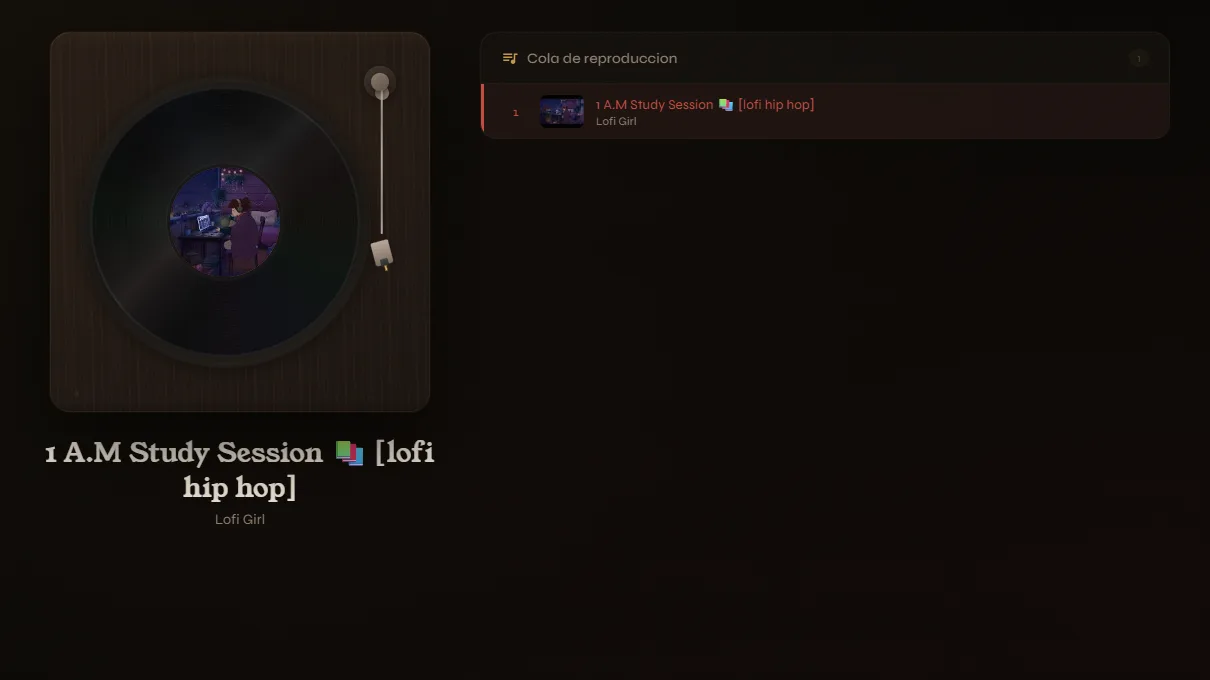
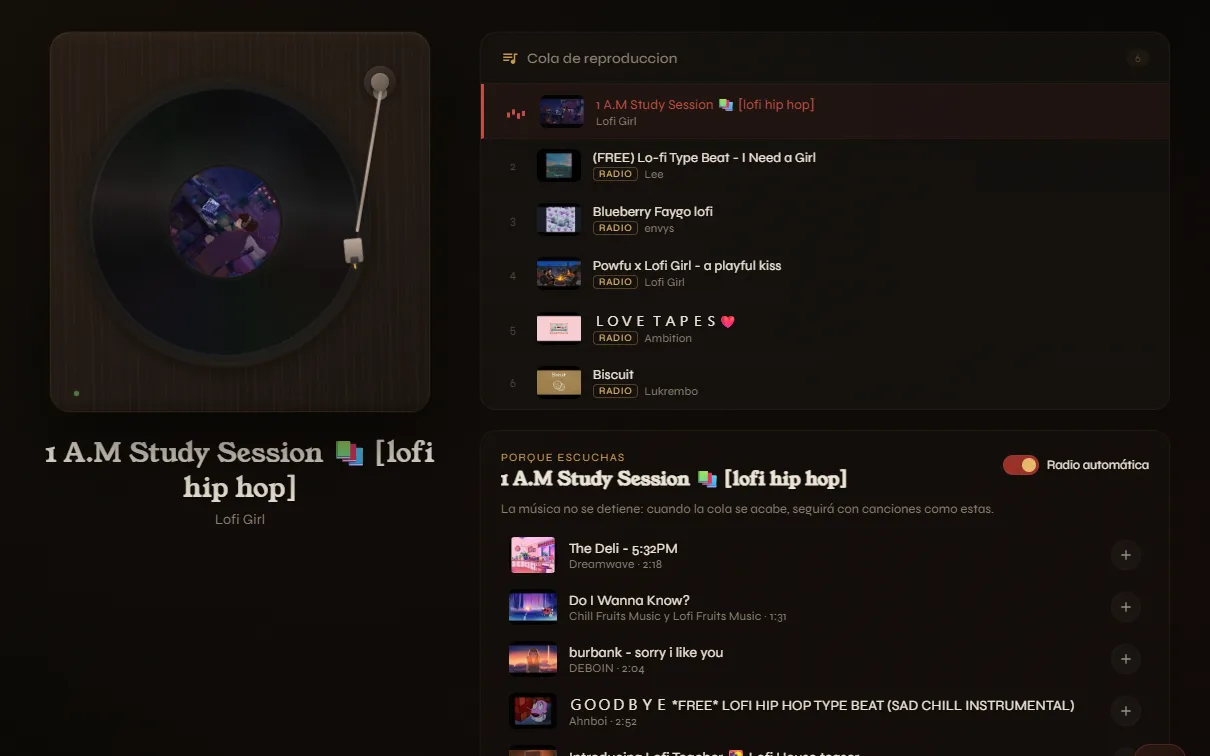
Actualizar el caso de Vinyl Player con la radio automática y las sugerencias

diff --git a/src/data/site.ts b/src/data/site.ts
@@ -389,20 +389,22 @@ export const cases: CaseStudy[] = [
     role: { es: 'Autor', en: 'Author' },
     built: {
       es: [
-        'El vinilo gira con la portada de la canción y el brazo baja al reproducir',
+        'Radio automática: a partir de la canción que suena, trae más de lo mismo y la música nunca se detiene',
+        'Panel "Porque escuchas…" con sugerencias para reproducir ya o sumar a la cola',
         'Playlist sincronizada con Socket.IO; cada invitado escucha en su dispositivo o en el del anfitrión',
         'Reconexión automática y búsqueda en YouTube sin API key; se despliega con Docker',
       ],
       en: [
-        'The record spins with the song cover and the tonearm drops on play',
+        'Auto radio: from the song that’s playing, it brings more of the same so the music never stops',
+        '"Because you’re listening to…" panel with suggestions to play now or queue',
         'Playlist synced with Socket.IO; each guest listens on their device or the host’s',
         'Automatic reconnection and YouTube search with no API key; ships with Docker',
       ],
     },
     metrics: [],
-    stack: ['Angular 21', 'Express 5', 'Socket.IO', 'Docker'],
+    stack: ['Angular 21', 'Signals', 'Express 5', 'Socket.IO', 'Vitest', 'Docker'],
     shots: [
-      { src: '/projects/vinyl-player.webp', url: 'localhost:3001', kind: 'browser', alt: { es: 'Vinyl Player: tocadiscos reproduciendo', en: 'Vinyl Player: turntable playing' } },
+      { src: '/projects/vinyl-player.webp', url: 'localhost:3001', kind: 'browser', alt: { es: 'Vinyl Player: tocadiscos, cola con canciones de la radio y sugerencias', en: 'Vinyl Player: turntable, queue with radio songs and suggestions' } },
     ],
     links: [{ label: 'code', href: 'https://github.com/JohanHdez/vinyl-player' }],
   },
